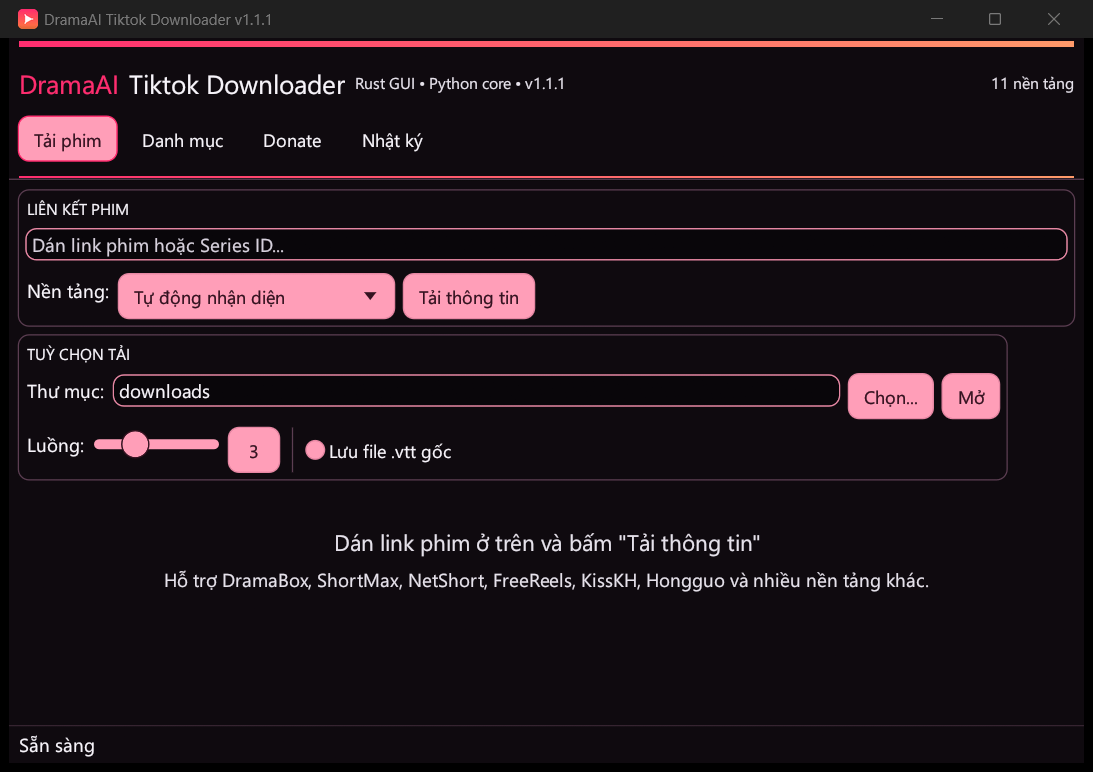
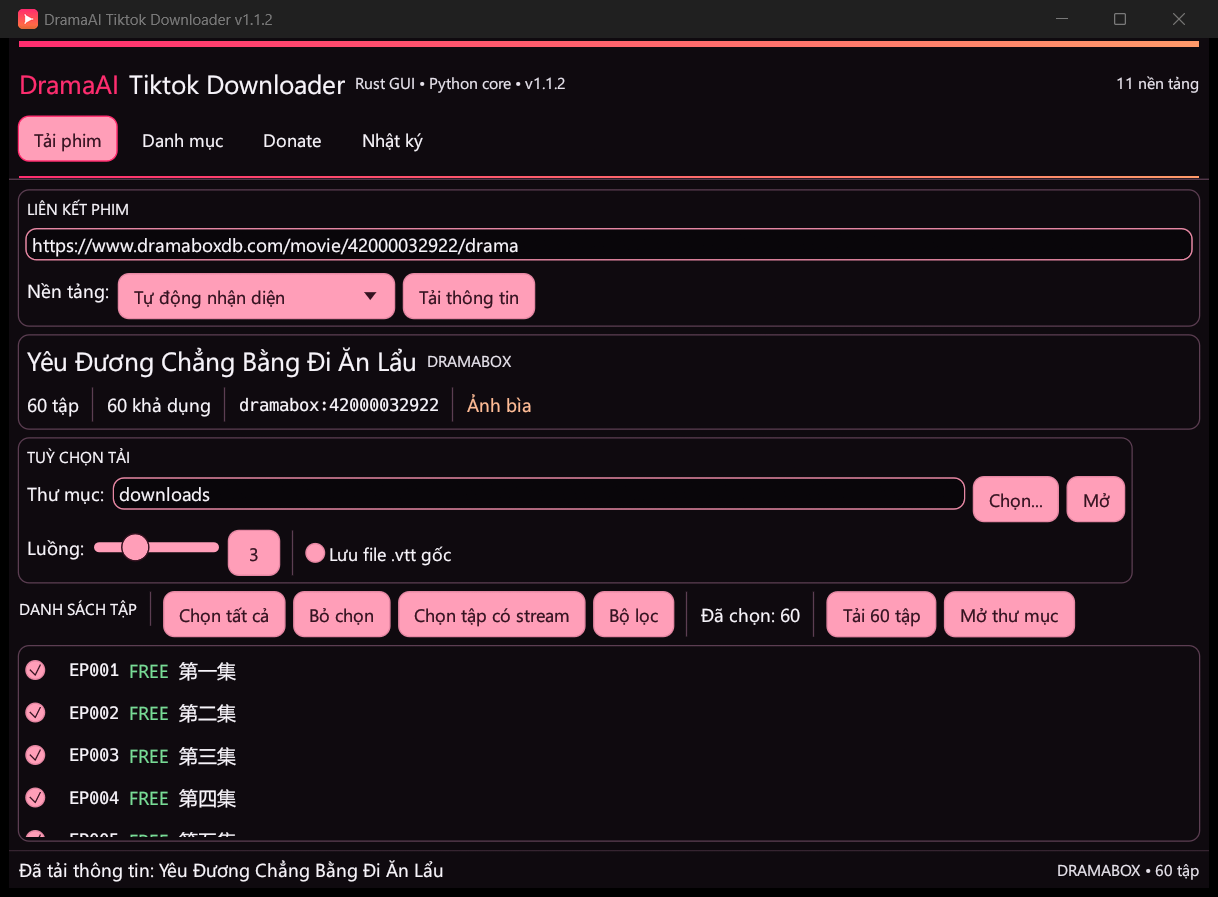
Reorganize UI layout and bump v1.1.2

Changed region(s): [[0.0, 0.0, 1.0, 0.9948]]

diff --git a/gui/src/main.rs b/gui/src/main.rs
@@ -136,6 +136,7 @@ struct App {
     selected: HashSet<u32>,
     ep_filter: String,
     range_input: String,
+    show_filters: bool,
 
     busy: Busy,
     status: String,
@@ -161,7 +162,15 @@ impl App {
     fn new(cc: &eframe::CreationContext<'_>) -> Self {
         install_fonts(&cc.egui_ctx);
         configure_style(&cc.egui_ctx);
-        Self::base()
+        let mut app = Self::base();
+        if let Ok(start_url) = std::env::var("DRAMA_GUI_START_URL") {
+            let start_url = start_url.trim().to_owned();
+            if !start_url.is_empty() {
+                app.url = start_url;
+                app.start_info(&cc.egui_ctx);
+            }
+        }
+        app
     }
 
     fn base() -> Self {
@@ -194,6 +203,7 @@ impl App {
             selected: HashSet::new(),
             ep_filter: String::new(),
             range_input: String::new(),
+            show_filters: false,
             busy: Busy::Idle,
             status: "Sẵn sàng".to_owned(),
             error: None,
@@ -642,7 +652,6 @@ impl App {
     fn ui_download(&mut self, ui: &mut egui::Ui, ctx: &egui::Context) {
         let mut start_info = false;
         let mut start_download = false;
-        let mut cancel_download = false;
         let mut pick_folder = false;
         let mut open_folder = false;
         let mut apply_range = false;
@@ -693,8 +702,12 @@ impl App {
 
         if let Some(series) = &self.series {
             egui::Frame::group(ui.style()).show(ui, |ui| {
+                ui.set_width(ui.available_width());
                 ui.horizontal(|ui| {
-                    ui.heading(&series.name);
+                    let title = ui.heading(&series.name);
+                    if !series.description.is_empty() {
+                        title.on_hover_text(&series.description);
+                    }
                     ui.label(
                         egui::RichText::new(series.platform.to_uppercase())
                             .small()
@@ -714,11 +727,6 @@ impl App {
                         ui.hyperlink_to("Ảnh bìa", &series.cover);
                     }
                 });
-                if !series.description.is_empty() {
-                    egui::CollapsingHeader::new("Mô tả").show(ui, |ui| {
-                        ui.label(egui::RichText::new(&series.description).weak());
-                    });
-                }
             });
         }
 
@@ -759,7 +767,7 @@ impl App {
         if let Some(series) = &self.series {
             let max_num = series.episodes.iter().map(|ep| ep.num).max().unwrap_or(0);
 
-            ui.horizontal(|ui| {
+            ui.horizontal_wrapped(|ui| {
                 ui.label(
                     egui::RichText::new("DANH SÁCH TẬP")
                         .small()
@@ -781,38 +789,66 @@ impl App {
                         .map(|ep| ep.num)
                         .collect();
                 }
+                if ui
+                    .button(if self.show_filters {
+                        "Ẩn bộ lọc"
+                    } else {
+                        "Bộ lọc"
+                    })
+                    .clicked()
+                {
+                    self.show_filters = !self.show_filters;
+                }
                 ui.separator();
                 ui.label(format!("Đã chọn: {}", self.selected.len()));
-            });
-
-            ui.horizontal(|ui| {
-                ui.label("Lọc:");
-                ui.add(
-                    egui::TextEdit::singleline(&mut self.ep_filter)
-                        .hint_text(egui::RichText::new("tên tập hoặc số tập").color(TEXT_FADE))
-                        .desired_width(220.0)
-                        .text_color(TEXT_MAIN),
-                );
-                if ui.button("Xóa lọc").clicked() {
-                    self.ep_filter.clear();
-                }
                 ui.separator();
-                ui.label("Dải tập:");
-                ui.add(
-                    egui::TextEdit::singleline(&mut self.range_input)
-                        .hint_text(egui::RichText::new("1-10,15").color(TEXT_FADE))
-                        .desired_width(130.0)
-                        .text_color(TEXT_MAIN),
-                );
-                if ui.button("Áp dụng").clicked() {
-                    apply_range = true;
+                let selected_count = self.selected.len();
+                let can_download = self.busy == Busy::Idle && selected_count > 0;
+                if ui
+                    .add_enabled(
+                        can_download,
+                        egui::Button::new(format!("Tải {selected_count} tập")).fill(BRAND_BUTTON),
+                    )
+                    .clicked()
+                {
+                    start_download = true;
                 }
-                ui.label(format!("tối đa {max_num}"));
+                if ui.button("Mở thư mục").clicked() {
+                    open_folder = true;
+                }
             });
 
+            if self.show_filters {
+                ui.horizontal_wrapped(|ui| {
+                    ui.label("Lọc:");
+                    ui.add(
+                        egui::TextEdit::singleline(&mut self.ep_filter)
+                            .hint_text(egui::RichText::new("tên tập hoặc số tập").color(TEXT_FADE))
+                            .desired_width(220.0)
+                            .text_color(TEXT_MAIN),
+                    );
+                    if ui.button("Xóa lọc").clicked() {
+                        self.ep_filter.clear();
+                    }
+                    ui.separator();
+                    ui.label("Dải tập:");
+                    ui.add(
+                        egui::TextEdit::singleline(&mut self.range_input)
+                            .hint_text(egui::RichText::new("1-10,15").color(TEXT_FADE))
+                            .desired_width(130.0)
+                            .text_color(TEXT_MAIN),
+                    );
+                    if ui.button("Áp dụng").clicked() {
+                        apply_range = true;
+                    }
+                    ui.label(format!("tối đa {max_num}"));
+                });
+            }
+
+            let list_height = ui.available_height().clamp(260.0, 520.0);
             egui::Frame::group(ui.style()).show(ui, |ui| {
                 egui::ScrollArea::vertical()
-                    .max_height(300.0)
+                    .max_height(list_height)
                     .auto_shrink([false, false])
                     .show(ui, |ui| {
                         episode_list_ui(
@@ -823,84 +859,6 @@ impl App {
                             &self.ep_filter,
                         );
                     });
-            });
-        }
-
-        if let Some(dl) = &self.dl {
-            egui::Frame::group(ui.style()).show(ui, |ui| {
-                ui.horizontal(|ui| {
-                    let selected_count = self.selected.len();
-                    let can_download =
-                        self.busy == Busy::Idle && selected_count > 0 && self.series.is_some();
-                    if ui
-                        .add_enabled(
-                            can_download,
-                            egui::Button::new(format!("Tải {selected_count} tập đã chọn"))
-                                .fill(BRAND_BUTTON),
-                        )
-                        .clicked()
-                    {
-                        start_download = true;
-                    }
-                    if self.busy == Busy::Download && !dl.finished {
-                        if ui.button("Hủy").clicked() {
-                            cancel_download = true;
-                        }
-                    }
-                    if ui.button("Mở thư mục").clicked() {
-                        open_folder = true;
-                    }
-                    if self.busy == Busy::Download {
-                        ui.spinner();
-                    }
-                });
-
-                let partial: f32 = dl
-                    .ep_progress
-                    .values()
-                    .filter(|progress| **progress < 1.0)
-                    .sum();
-                let fraction = if dl.total > 0 {
-                    ((dl.done + dl.failed) as f32 + partial) / dl.total as f32
-                } else {
-                    0.0
-                };
-                ui.add(
-                    egui::ProgressBar::new(fraction.clamp(0.0, 1.0))
-                        .show_percentage()
-                        .desired_width(f32::INFINITY),
-                );
-                ui.horizontal(|ui| {
-                    ui.label(format!("{}/{} tập hoàn tất", dl.done, dl.total));
-                    if dl.failed > 0 {
-                        ui.colored_label(
-                            egui::Color32::from_rgb(255, 120, 120),
-                            format!("{} lỗi", dl.failed),
-                        );
-                    }
-                    if dl.finished {
-                        ui.colored_label(egui::Color32::from_rgb(120, 220, 150), "Đã kết thúc");
-                    }
-                });
-            });
-        } else if let Some(series) = &self.series {
-            ui.horizontal(|ui| {
-                let selected_count = self.selected.len();
-                let can_download = self.busy == Busy::Idle && selected_count > 0;
-                if ui
-                    .add_enabled(
-                        can_download,
-                        egui::Button::new(format!("Tải {selected_count} tập đã chọn"))
-                            .fill(BRAND_BUTTON),
-                    )
-                    .clicked()
-                {
-                    start_download = true;
-                }
-                if ui.button("Mở thư mục").clicked() {
-                    open_folder = true;
-                }
-                ui.label(format!("{} tập trong series", series.episode_count));
             });
         }
 
@@ -926,9 +884,6 @@ impl App {
         }
         if start_download {
             self.start_download(ctx);
-        }
-        if cancel_download {
-            self.cancel();
         }
         if pick_folder {
             if let Some(dir) = rfd::FileDialog::new()
@@ -1191,7 +1146,7 @@ impl eframe::App for App {
                 ui.heading(egui::RichText::new("DramaAI").color(BRAND_PINK));
                 ui.heading("Tiktok Downloader");
                 ui.label(
-                    egui::RichText::new("Rust GUI • Python core • v1.1.1")
+                    egui::RichText::new("Rust GUI • Python core • v1.1.2")
                         .small()
                         .weak(),
                 );
@@ -1215,6 +1170,7 @@ impl eframe::App for App {
             gradient_bar(ui, 2.0);
         });
 
+        let mut cancel_download = false;
         egui::TopBottomPanel::bottom("status_bar").show(ctx, |ui| {
             ui.horizontal(|ui| {
                 if self.busy != Busy::Idle {
@@ -1224,6 +1180,35 @@ impl eframe::App for App {
                 if let Some(error) = &self.error {
                     ui.separator();
                     ui.colored_label(egui::Color32::from_rgb(255, 120, 120), error);
+                }
+                if let Some(dl) = &self.dl {
+                    let partial: f32 = dl
+                        .ep_progress
+                        .values()
+                        .filter(|progress| **progress < 1.0)
+                        .sum();
+                    let fraction = if dl.total > 0 {
+                        ((dl.done + dl.failed) as f32 + partial) / dl.total as f32
+                    } else {
+                        0.0
+                    };
+                    ui.separator();
+                    ui.add(
+                        egui::ProgressBar::new(fraction.clamp(0.0, 1.0))
+                            .desired_width(150.0)
+                            .show_percentage(),
+                    );
+                    if self.busy == Busy::Download && !dl.finished {
+                        if ui.small_button("Hủy").clicked() {
+                            cancel_download = true;
+                        }
+                    }
+                    if dl.failed > 0 {
+                        ui.colored_label(
+                            egui::Color32::from_rgb(255, 120, 120),
+                            format!("{} lỗi", dl.failed),
+                        );
+                    }
                 }
                 ui.with_layout(egui::Layout::right_to_left(egui::Align::Center), |ui| {
                     if let Some(series) = &self.series {
@@ -1240,6 +1225,9 @@ impl eframe::App for App {
                 });
             });
         });
+        if cancel_download {
+            self.cancel();
+        }
 
         egui::CentralPanel::default().show(ctx, |ui| match self.tab {
             Tab::Download => {
@@ -1655,10 +1643,10 @@ fn main() -> eframe::Result {
     }
 
     let mut viewport = egui::ViewportBuilder::default()
-        .with_inner_size([860.0, 580.0])
-        .with_min_inner_size([780.0, 500.0])
+        .with_inner_size([960.0, 680.0])
+        .with_min_inner_size([820.0, 560.0])
         .with_resizable(true)
-        .with_title("DramaAI Tiktok Downloader v1.1.1");
+        .with_title("DramaAI Tiktok Downloader v1.1.2");
     if let Some(icon) = load_window_icon() {
         viewport = viewport.with_icon(std::sync::Arc::new(icon));
     }
@@ -1670,7 +1658,7 @@ fn main() -> eframe::Result {
     };
 
     eframe::run_native(
-        "DramaAI Tiktok Downloader v1.1.1",
+        "DramaAI Tiktok Downloader v1.1.2",
         options,
         Box::new(|cc| Ok(Box::new(App::new(cc)))),
     )

diff --git a/setup.py b/setup.py
@@ -2,7 +2,7 @@ from setuptools import setup, find_packages
 
 setup(
     name="dramaai-tiktok-downloader",
-    version="1.1.1",
+    version="1.1.2",
     description="DramaAI Tiktok Downloader - Multi-Platform Short Drama Extractor and Downloader Module",
     packages=find_packages(),
     install_requires=[
